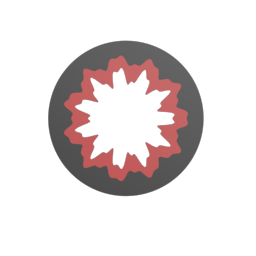
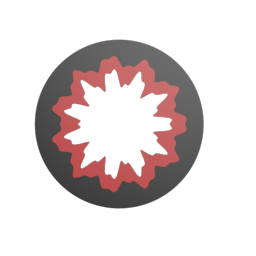
쉴드 사용 가능 / 실행 가능 버전 투척

diff --git a/homura/player_component.cpp b/homura/player_component.cpp
@@ -56,6 +56,20 @@ void PlayerComponent::Update(float dt) {
         }
     }
 
+    //파워 쉴드
+    if(using_power_shield_) {
+        power_shield_timer_ += dt;
+        if(power_shield_timer_ > 15) {
+            EndPowerShield();
+        }
+    }
+    else {
+        power_shield_timer_ += dt;
+        if(power_shield_timer_ > 5) {
+            can_use_power_shield_ = true;
+        }
+    }
+
     //이 부분을 레이어 관련으로 묶자
     //반사 쉴드 그리기
     //크기는 어떻게 할까
@@ -237,4 +251,22 @@ void PlayerComponent::EndTokamakField() {
     tokamak_timer_ = 0;
     obj()->world()->shield_layer->StopRenderTokamakField(obj()->id());
     set_unbeatable(false);
+}
+
+void PlayerComponent::UsePowerShield() {
+    if(!can_use_power_shield_) {
+        return;
+    }
+
+    power_shield_timer_ = 0;
+    can_use_power_shield_ = false;
+    using_power_shield_ = true;
+
+    CreateShieldMessage msg = CreateShieldMessage::Create(false);
+    obj()->world()->OnMessage(&msg);
+}
+
+void PlayerComponent::EndPowerShield() {
+    using_power_shield_ = false;
+    power_shield_timer_ = 0;
 }

diff --git a/homura/player_component.h b/homura/player_component.h
@@ -4,6 +4,7 @@
 
 #include "character_component.h"
 
+
 class PlayerComponent : public CharacterComponent {
 public:
     PlayerComponent(GameObject *obj, cocos2d::CCNode *layer);
@@ -34,6 +35,10 @@ public:
     void UseTokamakField();
     void EndTokamakField();
 
+    //전부 쉴드 주는 필살기
+    void UsePowerShield();
+    void EndPowerShield();
+
 
 private:
     void AfterDestroy();
@@ -62,6 +67,11 @@ private:
     float tokamak_timer_;
     bool using_tokamak_;
     bool can_use_tokamak_;
+
+    //파워 쉴드 타이머
+    float power_shield_timer_;
+    bool using_power_shield_;
+    bool can_use_power_shield_;
 };
 
 #endif

diff --git a/homura/game_layer.cpp b/homura/game_layer.cpp
@@ -250,8 +250,7 @@ void GameLayer::ccTouchesEnded(CCSet *touches, CCEvent *event) {
             CCLOG("lethal1!");
         } else if(lethal_btn2_box.containsPoint(location)) {
             //전체 쉴드
-            CreateShieldMessage msg = CreateShieldMessage::Create(false);
-            world_->OnMessage(&msg);
+            static_cast<PlayerComponent*>(player_->logic_comp())->UsePowerShield();
         }
 
     }
